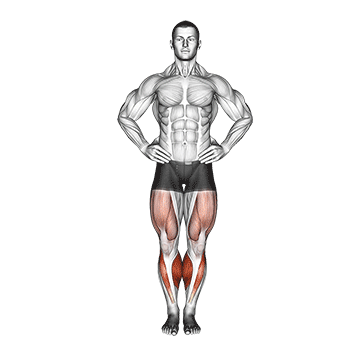
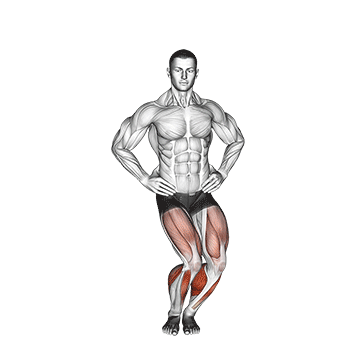
减少动效时的静态示范改用动作帧，休息页不再说「照着示范」
热身海报原本是动图第一帧，而这几段动图起始就是站立预备位——开了减少动效的人看到的是一张没有动作的人体图。1368/0257/1167 按同一动图重取中间帧，来源记录同步改述。
休息页口令原先写死「照着示范摆好起始位」，下一个动作是无示范的毛巾划船时屏上只有文字步骤，现在按有没有示范分开说，并加进 e2e。

Changed region(s): [[0.3056, 0.0611, 0.7028, 0.9472]]

diff --git a/app.js b/app.js
@@ -1188,7 +1188,8 @@ function renderStep(){
     $('plRound').textContent = '第 ' + step.round + ' 轮';
     $('plClock').className = 'pl-clock num rest';
     $('plMv').textContent = '休息一下';
-    $('plCue').textContent = '恢复呼吸，照着示范摆好起始位。';
+    // 下一个动作没有示范图时，屏幕上摆出来的是文字步骤，口令就不能说「照着示范」
+    $('plCue').textContent = step.next && step.next.noMedia ? '恢复呼吸，照着下面的步骤摆好起始位。' : '恢复呼吸，照着示范摆好起始位。';
     renderDemo(step.next, '下一动作', false);
     preloadMove(step.next, true);
   } else if(step.type === 'break'){

diff --git a/BACKLOG.md b/BACKLOG.md
@@ -65,7 +65,10 @@
   → 2026-09-24 同一轮补齐：5 个热身动作、10 个拉伸动作各配一句 30 字内口令，热身/拉伸屏与正式动作用同一版式（右上角改成「1 / 5」「全身拉伸 3 / 9」，标题不再重复动作名）。扶墙股四头拉伸没有示范图，补三步文字步骤——只留一句口令时整屏留白（截图看过）。
 - [x] 把上一轮新写的 15 句口令逐条对着示范核一遍（5 个热身动图抽帧、10 张拉伸海报拼图看过）。两处与动图不符：`1428` 腕关节绕环的动图是抬起前臂单腕画圈，不是「双手十指交叉转动」；`1167` 动态扩胸是双臂向两侧打开再合回，不是「前后摆动」。口令与要领都按动图改了。
 - [x] 正式动作里「图是…」「示范…」这类对素材的断言也逐条核过（16 个动图各抽 3 帧）。两处是假的：`3239` 跪姿平板点肩的动图其实是**腿伸直**的前臂平板抬单手，文案却写「图是跪姿平板点肩」；`0404` 叫「坐姿中立握哑铃推举」，动图是掌心向前。改法不是换名字（预录语音念的是名字，`mmx` 未登录就不能重录），而是让文案说清示范与家里做法的差别，并把这句话搬到示范角标上——新增 `mediaLabel`，`0292`（跪凳三点）、`2287`（斜蹬/哈克）、`bird-dog`（对侧同伸）同理标注。`0576` 推胸机的轨迹是向前上方的弧线，口令跟着改。播放器文案与角标已在 390×844 实机截图核对。
-- [ ] 三个关节画圈热身（`1368` 踝、`0257` 膝、`1428` 腕）的 `-poster.png` 是肌肉示意图，不是动作定格：开了「减少动效」的用户看到的是一具肌肉图，学不到怎么做。要么重做这三张海报，要么换素材。
+- [x] 三个关节画圈热身（`1368` 踝、`0257` 膝、`1428` 腕）的 `-poster.png` 看不出动作，开了「减少动效」的用户只看到一具标了肌肉的人体。
+  → 2026-09-24 查清：海报是动图的**第一帧**（`SOURCE_LICENSE.txt` 第 4 节写明），而这几段动图起始就是站立预备位，所以定格里没有动作。按同一张动图重取了中间帧：`1368` 用抬起脚背的一帧、`0257` 用双手扶膝、膝转向一侧的一帧；`1428` 的第一帧本来就抬着前臂，不用换。顺带把 `1167` 动态扩胸换成双臂打开的一帧——旧海报是双臂前伸，看着像抱不是扩胸，而口令写的正是「向两侧打开再合回」。素材来源没变，`SOURCE_LICENSE.txt` 已改述。
+  → 残留：`1368` 踝关节绕环的脚部在 360px 里只占一角，静态图仍看不出「画圈」，动图本身也弱；要真正解决得重做这段素材。
+- [x] 休息页的口令写死「恢复呼吸，照着示范摆好起始位」，可下一个动作是无示范的坐姿毛巾划船时，屏上只有文字步骤，这句话指不到任何东西（减少动效截图时看到）。改成按下一个动作有没有示范来说话，并加进 e2e 断言。
 - [ ] 改动作名或要领时要连带核对 `voice-scripts.json`：预录音频里念的是名字加旧要领。本轮 4 处文案改动都刻意避开了名字和已被录音复述的表述，所以不需要重录；下次改到名字就得先确认 `mmx` 可用。
 
 ## 已放弃
